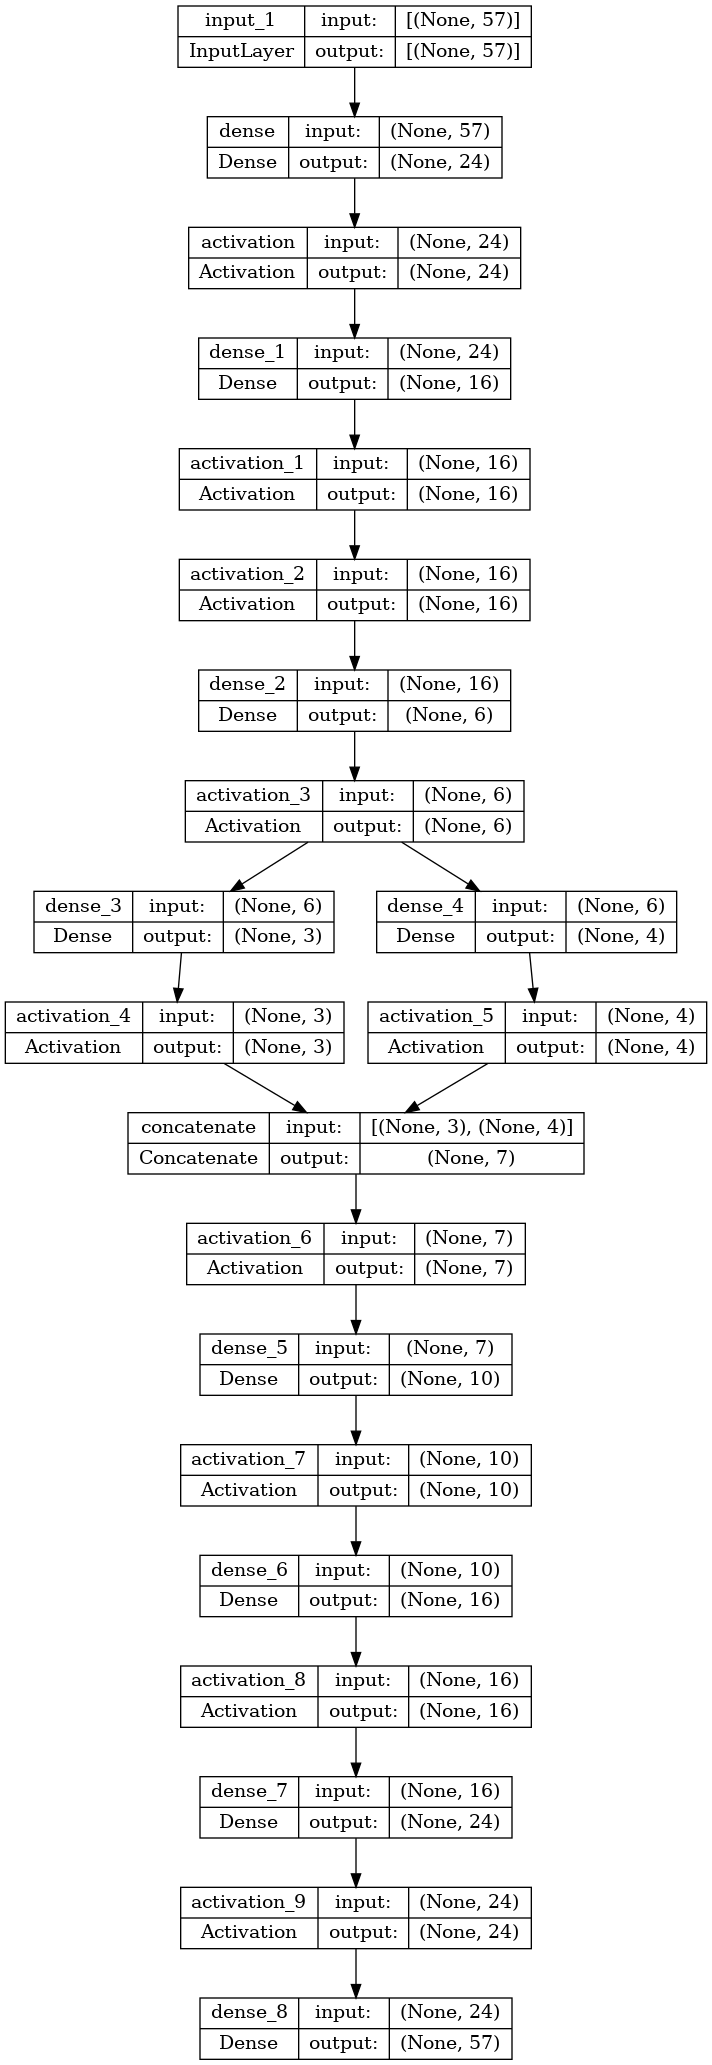
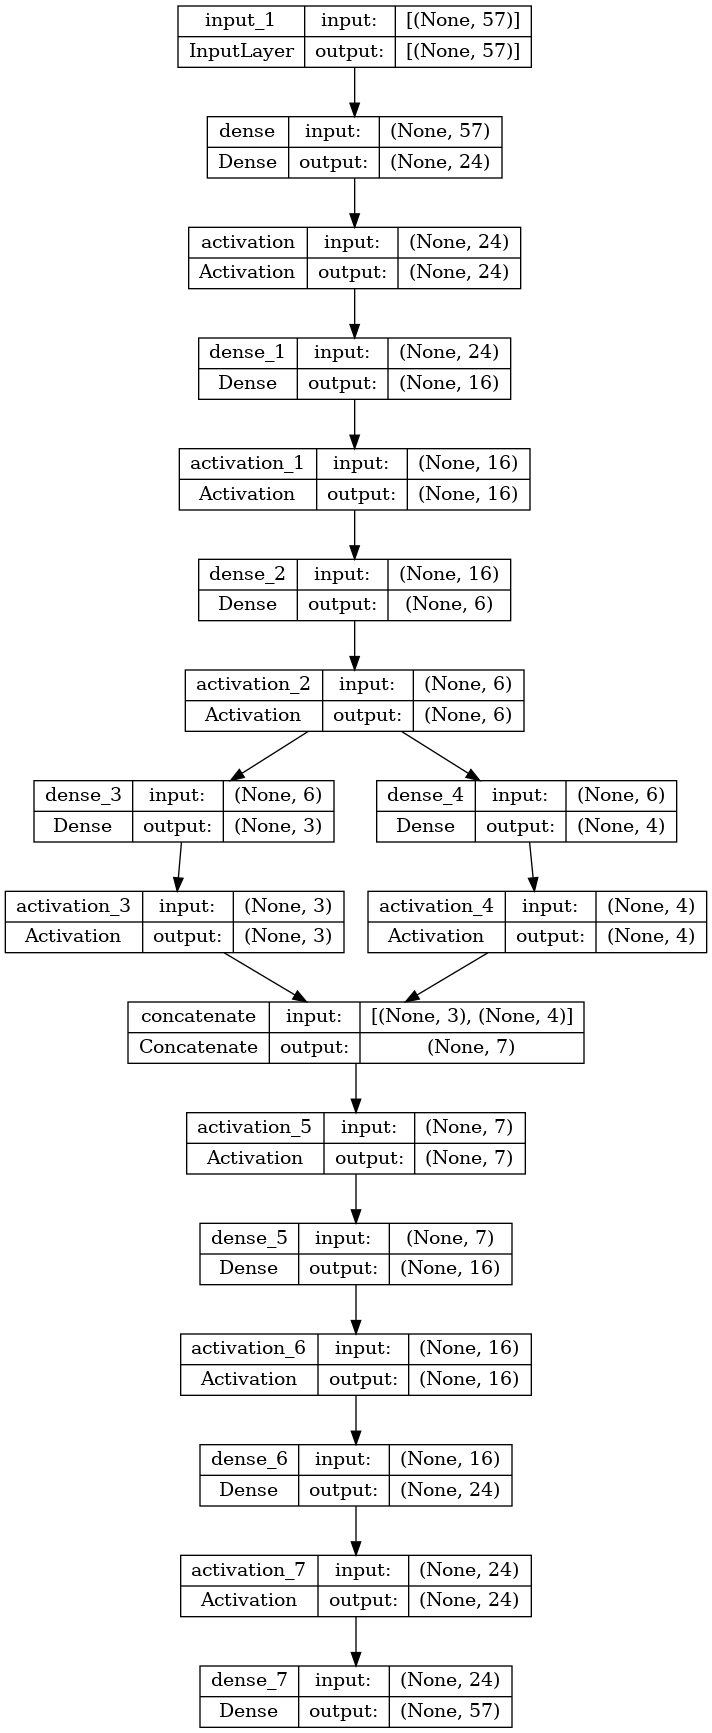
add quite a good model

Changed region(s): [[0.0, 0.0, 1.0, 1.0]]

diff --git a/training/Dense-voting_2.py b/training/Dense-voting_2.py
@@ -23,7 +23,7 @@ from tensorflow.keras.layers import (
     Layer,
 )
 from tensorflow.keras.models import Model
-
+'''
 # In[2]:
 gpus = tf.config.experimental.list_physical_devices("GPU")
 if gpus:
@@ -34,6 +34,11 @@ if gpus:
         )
     except RuntimeError as e:
         print(e)
+'''
+
+config = tf.ConfigProto()
+config.gpu_options.allow_growth = True
+sess= tf.Session(config=config):
 
 
 # In[2]:
@@ -72,7 +77,8 @@ x = Dense(num_nodes[0], use_bias=False, kernel_initializer=initializer)(inputArr
 x = Activation(activation)(x)
 x = Dense(num_nodes[1], use_bias=False, kernel_initializer=initializer)(x)
 x = Activation(activation)(x)
-x = Activation(activation)(x)
+#x = Dense(num_nodes[2], use_bias=False, kernel_initializer=initializer)(x)
+#x = Activation(activation)(x)
 x = Dense(latent_dimension, use_bias=False, kernel_initializer=initializer)(x)
 x = Activation(activation)(x)
 encoder_1 = Dense(latent_dimension - 3, use_bias=False, kernel_initializer=initializer)(x)
@@ -84,8 +90,8 @@ encoder_act2 = Activation("linear")(encoder_2)
 # decoder
 merged = Concatenate()([encoder_act1, encoder_act2])
 x = Activation(activation)(merged)
-x = Dense(num_nodes[2], use_bias=False, kernel_initializer=initializer)(x)
-x = Activation(activation)(x)
+#x = Dense(num_nodes[2], use_bias=False, kernel_initializer=initializer)(x)
+#x = Activation(activation)(x)
 x = Dense(num_nodes[1], use_bias=False, kernel_initializer=initializer)(x)
 x = Activation(activation)(x)
 x = Dense(num_nodes[0], use_bias=False, kernel_initializer=initializer)(x)
